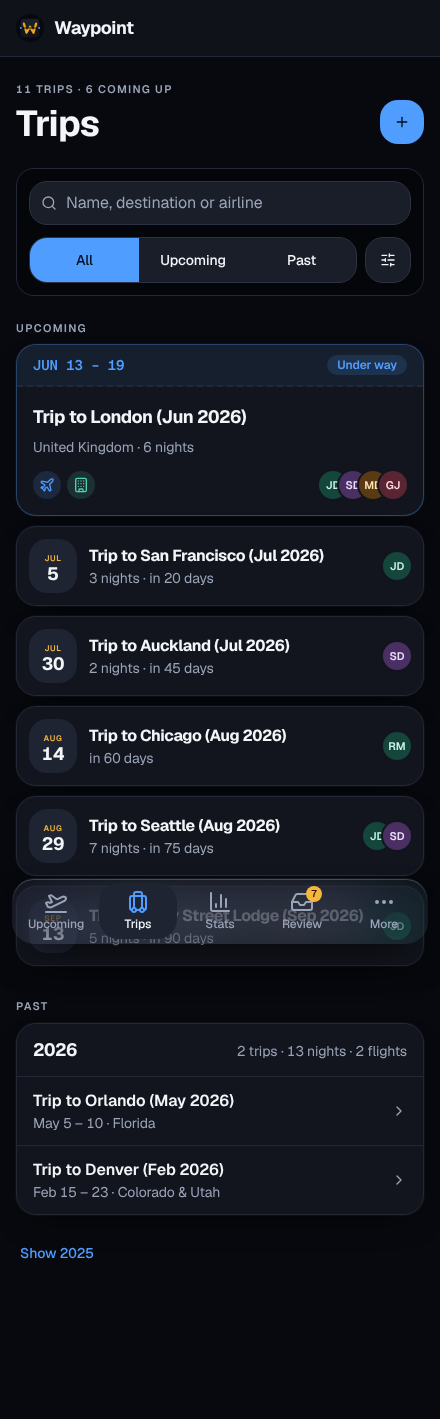
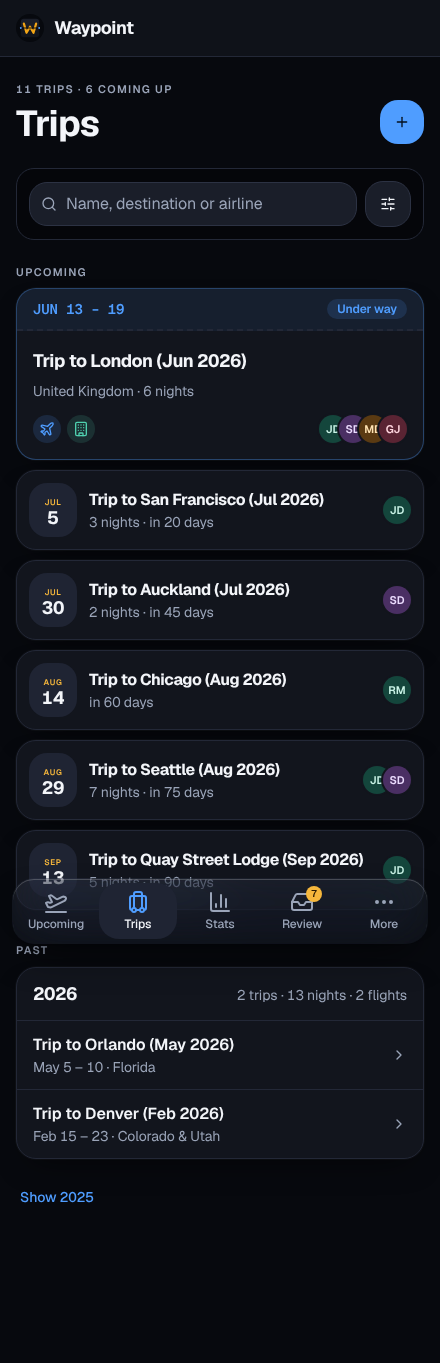
Trips: drop the All/Upcoming/Past switch, Filters beside search (#439)

diff --git a/frontend/src/pages/Trips.svelte b/frontend/src/pages/Trips.svelte
@@ -21,7 +21,7 @@
   import { dropDrafts, leave } from "$lib/drafts.svelte";
   import { panes } from "$lib/panes.svelte";
   import { blankFor } from "$lib/segment-form";
-  import { dayIn, inYear, matchesText, pastByYear, splitTrips, tripRangeLabel, tripPeople, tripYears, viewerZone, type TripWhen } from "$lib/trips";
+  import { dayIn, inYear, matchesText, pastByYear, splitTrips, tripRangeLabel, tripPeople, tripYears, viewerZone } from "$lib/trips";
   import TripPane from "./Trip.svelte";
   import ChevronRight from "@lucide/svelte/icons/chevron-right";
   import Plus from "@lucide/svelte/icons/plus";
@@ -56,10 +56,9 @@
   const who = $derived(Number(param("who")) || null);
   const tripParam = $derived(Number(param("trip")) || null);
   const text = $derived((param("q") ?? "").trim());
-  const when = $derived<TripWhen | null>(param("when") === "upcoming" || param("when") === "past" ? (param("when") as TripWhen) : null);
   const year = $derived(Number(param("year")) || null);
   const queryFor = (change: Record<string, string | number | null>) => {
-    const next = { who, q: text, when, year, trip: tripParam, add: openedByQuery ? adding : null, ...change };
+    const next = { who, q: text, year, trip: tripParam, add: openedByQuery ? adding : null, ...change };
     const q = new URLSearchParams();
     for (const [key, value] of Object.entries(next)) if (value) q.set(key, String(value));
     return q.toString();
@@ -70,12 +69,12 @@
     const v = field.value;
     if (!refine({ q: v.trim() ? v : null })) field.value = text;
   };
-  const clearFilters = () => refine({ who: null, q: null, when: null, year: null });
+  const clearFilters = () => refine({ who: null, q: null, year: null });
   const filtered = $derived(trips && trips.filter((t) => (!who || t.people.includes(who) || t.segments.some((s) => s.travelers.some((x) => x.person_id === who))) && matchesText(t, text) && (!year || inYear(t, year))));
   const count = (n: number) => `${n} ${n === 1 ? "trip" : "trips"}`;
   let filtersOpen = $state(false);
   const years = $derived(trips ? tripYears(trips) : []);
-  const filtering = $derived(!!(who || text || when || year));
+  const filtering = $derived(!!(who || text || year));
   let now = $state(Date.now());
   $effect(() => {
     const tick = setInterval(() => (now = Date.now()), 30_000);
@@ -86,7 +85,7 @@
   const shown = $derived.by(() => {
     if (!filtered) return null;
     const split = splitTrips(filtered, today());
-    return { upcoming: when === "past" ? [] : split.upcoming, past: when === "upcoming" ? [] : split.past };
+    return split;
   });
   const everyTrip = $derived(shown ? [...shown.upcoming, ...shown.past] : []);
   const summary = $derived(trips ? (filtering ? `${everyTrip.length} of ${count(trips.length)}` : `${count(trips.length)}${comingUp ? ` · ${comingUp} coming up` : ""}`) : "");
@@ -129,21 +128,14 @@
 {:else}
   {#if trips && trips.length > 0}
     <form class="mb-6 flex flex-col gap-3 rounded-[18px] border border-border bg-black/25 p-3 md:flex-row md:flex-wrap md:items-center md:gap-x-5 md:gap-y-3 md:p-4" role="search" aria-label="Find a trip" onsubmit={(e) => e.preventDefault()}>
-      <div class="relative w-full md:max-w-sm md:min-w-56 md:flex-1">
-        <label for="trip-search" class="sr-only">Search trips</label>
-        <Search class="pointer-events-none absolute top-1/2 left-3 size-4 -translate-y-1/2 text-muted-foreground" aria-hidden="true" />
-        <Input id="trip-search" type="search" class="pl-9 phone:h-11" value={text} oninput={search} placeholder="Name, destination or airline" autocomplete="off" />
-      </div>
-      <div class="flex items-center gap-2 md:gap-3">
-        <span class="eyebrow hidden md:inline" aria-hidden="true">Show</span>
-        <div class="flex flex-1 overflow-hidden rounded-xl border border-input bg-secondary" role="group" aria-label="Show">
-          {#each [["All", null], ["Upcoming", "upcoming"], ["Past", "past"]] as const as [label, value] (label)}
-            <button type="button" class={`min-h-10 phone:min-h-11 flex-1 px-4 text-sm font-medium outline-none focus-visible:ring-[3px] focus-visible:ring-ring/50 focus-visible:ring-inset ${when === value ? "bg-primary text-primary-foreground" : "hover:bg-input/60"}`}
-              aria-pressed={when === value} onclick={() => refine({ when: value })}>{label}</button>
-          {/each}
+      <div class="flex items-center gap-2 md:contents">
+        <div class="relative min-w-0 flex-1 md:max-w-sm md:min-w-56">
+          <label for="trip-search" class="sr-only">Search trips</label>
+          <Search class="pointer-events-none absolute top-1/2 left-3 size-4 -translate-y-1/2 text-muted-foreground" aria-hidden="true" />
+          <Input id="trip-search" type="search" class="pl-9 phone:h-11" value={text} oninput={search} placeholder="Name, destination or airline" autocomplete="off" />
         </div>
         {#if viewport.phone && (years.length > 1 || year || people.length > 1)}
-          <Button type="button" variant="outline" size="icon" class="relative size-[46px]" onclick={() => (filtersOpen = true)}>
+          <Button type="button" variant="outline" size="icon" class="relative size-[46px] shrink-0" onclick={() => (filtersOpen = true)}>
             <SlidersHorizontal /><span class="sr-only">Filters{year || who ? ", in use" : ""}</span>
             {#if year || who}<span class="absolute top-2 right-2 size-2 rounded-full bg-primary" data-testid="filters-dot" aria-hidden="true"></span>{/if}
           </Button>
@@ -165,7 +157,7 @@
     {/if}
   {/if}
   {#if shown.upcoming.length === 0 && shown.past.length === 0}
-    <p class="text-muted-foreground">{filtering ? (who && !text && !when && !year ? "No trips with them." : "No trips match.") : "No trips yet — they’ll appear here once Waypoint can read your confirmation emails, or when you add a booking."}</p>
+    <p class="text-muted-foreground">{filtering ? (who && !text && !year ? "No trips with them." : "No trips match.") : "No trips yet — they’ll appear here once Waypoint can read your confirmation emails, or when you add a booking."}</p>
   {/if}
   {#snippet upcomingList(group: Trip[])}
     {@const day = today()}

diff --git a/frontend/src/pages/Trips.svelte.test.ts b/frontend/src/pages/Trips.svelte.test.ts
@@ -487,26 +487,20 @@ describe("finding a trip", () => {
 
   it("opens with the filters from the address, and says when nothing matches", async () => {
     serve(archive);
-    route.query = "q=nowhere&when=past&year=2019";
+    route.query = "q=nowhere&year=2019";
     render(Trips);
     expect(await screen.findByText("No trips match.")).toBeInTheDocument();
     expect(screen.getByRole("searchbox", { name: "Search trips" })).toHaveValue("nowhere");
-    expect(within(screen.getByRole("group", { name: "Show" })).getByRole("button", { name: "Past" })).toHaveAttribute("aria-pressed", "true");
     expect(within(screen.getByRole("group", { name: "Year" })).getByRole("button", { name: "2019" })).toHaveAttribute("aria-pressed", "true");
     await user().click(screen.getByRole("button", { name: "Clear filters" }));
     expect(route.query).toBe("");
     expect(await screen.findByText("300 trips")).toBeInTheDocument();
   });
 
-  it("filters by year and by upcoming or past, together with the traveller", async () => {
+  it("filters by year, together with the traveller", async () => {
     serve();
     render(Trips);
     await screen.findByText("3 trips · 2 coming up");
-    await user().click(within(screen.getByRole("group", { name: "Show" })).getByRole("button", { name: "Past" }));
-    expect(route.query).toBe("when=past");
-    expect(screen.queryByRole("list", { name: "Upcoming trips" })).toBeNull();
-    expect(screen.getByText("Trip to Orlando")).toBeInTheDocument();
-    await user().click(within(screen.getByRole("group", { name: "Show" })).getByRole("button", { name: "All" }));
     await user().click(within(screen.getByRole("group", { name: "Year" })).getByRole("button", { name: "2027" }));
     expect(route.query).toBe("year=2027");
     expect(screen.getByText("Trip to Auckland")).toBeInTheDocument();
@@ -523,9 +517,17 @@ describe("finding a trip", () => {
     await screen.findByText("3 trips · 2 coming up");
     await user().click(within(screen.getByRole("group", { name: "Year" })).getByRole("button", { name: "2027" }));
     expect(route.query).toBe("year=2027&trip=2");
-    await user().click(within(screen.getByRole("group", { name: "Show" })).getByRole("button", { name: "Past" }));
-    expect(route.query).toBe("when=past&year=2027&trip=2");
+    await user().click(person("Jane Doe"));
+    expect(route.query).toBe("who=1&year=2027&trip=2");
     expect(screen.getByText("No trips match.")).toBeInTheDocument();
+  });
+
+  it("ignores a Show choice left in an old address", async () => {
+    route.query = "when=past";
+    serve();
+    render(Trips);
+    expect(await screen.findByRole("list", { name: "Upcoming trips" })).toBeInTheDocument();
+    expect(screen.queryByRole("button", { name: "Clear filters" })).toBeNull();
   });
 
   it("shows no filters before there is a trip to find", async () => {
@@ -533,19 +535,6 @@ describe("finding a trip", () => {
     render(Trips);
     await screen.findByText(/No trips yet/);
     expect(screen.queryByRole("searchbox")).toBeNull();
-  });
-
-  it("reads the Show control from the address and writes each choice back", async () => {
-    route.query = "when=upcoming";
-    render(Trips);
-    await screen.findByRole("list", { name: "Upcoming trips" });
-    const show = within(screen.getByRole("group", { name: "Show" }));
-    expect(show.getAllByRole("button").map((b) => [b.textContent, b.getAttribute("aria-pressed")])).toEqual([["All", "false"], ["Upcoming", "true"], ["Past", "false"]]);
-    expect(screen.queryByRole("list", { name: "Past trips" })).toBeNull();
-    await user().click(show.getByRole("button", { name: "Past" }));
-    expect(route.query).toBe("when=past");
-    await user().click(show.getByRole("button", { name: "All" }));
-    expect(route.query).toBe("");
   });
 
   it("clears the year by pressing it again, and reads it back from the address", async () => {
@@ -597,7 +586,7 @@ describe("finding a trip", () => {
     await screen.findByRole("list", { name: "Upcoming trips" });
     expect(screen.queryByRole("group", { name: "Year" })).toBeNull();
     expect(screen.queryByRole("group", { name: "Travelling" })).toBeNull();
-    expect(screen.getByRole("group", { name: "Show" })).toBeInTheDocument();
+    expect(screen.queryByRole("group", { name: "Show" })).toBeNull();
   });
 
   it("keeps a year that is in the address even when it is the only one", async () => {
@@ -632,7 +621,13 @@ describe("on a phone", () => {
     expect(screen.getByTestId("filters-dot")).toBeInTheDocument();
     expect(screen.getByRole("button", { name: "Filters, in use" })).toBeInTheDocument();
     expect(screen.getByRole("searchbox", { name: "Search trips" })).toBeInTheDocument();
-    expect(screen.getByRole("group", { name: "Show" })).toBeInTheDocument();
+    expect(screen.queryByRole("group", { name: "Show" })).toBeNull();
+  });
+
+  it("puts the Filters button beside the search field", async () => {
+    render(Trips);
+    await screen.findByRole("list", { name: "Upcoming trips" });
+    expect(screen.getByRole("button", { name: "Filters" }).parentElement).toBe(screen.getByRole("searchbox", { name: "Search trips" }).parentElement?.parentElement);
   });
 
   it("offers adding a trip, a booking or a past trip from one button", async () => {

diff --git a/frontend/src/pages/Upcoming.svelte b/frontend/src/pages/Upcoming.svelte
@@ -363,7 +363,7 @@
                     </li>
                   {/each}
                 </ul>
-                <a class="flex min-h-11 items-center justify-between border-t border-border px-4 text-sm font-medium underline-offset-2 hover:underline" href="#trips?when=upcoming">All trips<ChevronRight class="size-4 text-muted-foreground" aria-hidden="true" /></a>
+                <a class="flex min-h-11 items-center justify-between border-t border-border px-4 text-sm font-medium underline-offset-2 hover:underline" href="#trips">All trips<ChevronRight class="size-4 text-muted-foreground" aria-hidden="true" /></a>
               </section>
             {/if}
           {/if}

diff --git a/frontend/src/pages/Upcoming.svelte.test.ts b/frontend/src/pages/Upcoming.svelte.test.ts
@@ -804,7 +804,7 @@ describe("Upcoming side column", () => {
     expect(rows[1]).toHaveTextContent("Porto weekend");
     expect(rows[1]).toHaveTextContent("In 82 days · 2 nights");
     expect(rows[2]).toHaveTextContent("Rome");
-    expect(within(card).getByRole("link", { name: "All trips" })).toHaveAttribute("href", "#trips?when=upcoming");
+    expect(within(card).getByRole("link", { name: "All trips" })).toHaveAttribute("href", "#trips");
   });
 
   it("leaves the Later card out when there are no later trips", async () => {

diff --git a/frontend/src/lib/trips.ts b/frontend/src/lib/trips.ts
@@ -172,8 +172,6 @@ export function splitTrips(trips: Trip[], today: string): { upcoming: Trip[]; pa
   return { upcoming, past };
 }
 
-export type TripWhen = "upcoming" | "past";
-
 export function matchesText(trip: Trip, text: string): boolean {
   const terms = text.toLowerCase().split(/\s+/).filter(Boolean);
   if (!terms.length) return true;

diff --git a/docs/src/content/docs/start/trips.md b/docs/src/content/docs/start/trips.md
@@ -14,9 +14,9 @@ Past trips do not show offline-saving notices or offer to set up a saved copy. O
 - **Upcoming** opens with today’s date above its title and an **Add a booking** button (a **+** on a phone). When emails are waiting in Review and you have trips, an amber banner under the header says how many and links to Review; on a phone it is one compact row. Only the count is shown, never a subject or sender. Below the next-up card, the trip is laid out day by day: a date column and one card per day on a larger screen, a date above each card on a phone, with each booking’s time where it happens, a tile for its kind and a **Next up** marker on the booking the card shows. The trip’s heading shows its dates and nights.
 - **Upcoming** leads with a boarding pass for what is next. Its header strip names what it is (**Next up**, **Under way**, **In the air**, **Delayed** or **Latest flight**) and the trip, with the booking’s status chips and the count-down (below) on the right. Its body shows the airline and flight number with the flight’s length and “nonstop”, the airports’ codes, very large, joined by a dashed route line with the plane, each code with its city and airport name beneath it (just the code for an airport Waypoint doesn’t know), and the time at each in the airport’s own time with its date and “City time” (a stay, rental car or parking booking shows its place with the two times, such as check-in and check-out), with a small **+1** (or +2, or −1 across the date line) beside an arrival that falls on another calendar day than the departure. The stub beside it (under it on a phone) holds the confirmation code, which you tap to copy, then the terminal, gate (“Not yet” until it is known), seats and cabin (or a stay’s room and a rental’s car) and who is travelling by first name; on a phone the details are a strip of the code, terminal, gate and seats. Under the route, with the live flight status, sit the actions: the app or **Check in** button, then **Directions**, **Call**, **Show QR code** for a parking booking, and **Open trip**. On a phone only the app button, **Show QR code** and **Open trip** are shown; the rest are on the trip page. A flight booked on two reservations shows each code. A flight in the air or a rental car out counts as under way and leads until it ends; a hotel stay in progress doesn’t push the day’s flight aside. Below it, the trip that card belongs to (or the next one, when you aren’t travelling) is laid out day by day. On a day you leave, the list puts the hotel check-out first, then the car’s return, then the departure, whatever hours the bookings show (a check-out time is often the hotel’s standard hour, not when you walk out). Each booking in that list, and the card’s **Open trip** button, links to that booking’s card on its trip page, which scrolls to it and outlines it; clicking one opens its full card in a sheet (it slides up from the bottom on a phone and is a side panel on a larger screen), with an **Open trip** button to go to the trip page, and Ctrl- or Cmd-click still follows the link. In that day-by-day list a flight leaves out its cabin, a hotel with a known brand shows the brand (Hyatt Place) and any other hotel its full name, each with its city and state from the address (City, State when both are known, the city alone or the state alone when only one is), and a hotel’s full name appears when you hover over a branded one. An address that can’t be read is shown as it was written. The trip page keeps the full names, cabins and addresses. Cancelled segments never lead.
 - A stay or rental with a map link or a phone number shows **Directions** and **Call** on the Upcoming card, in place of the app button, as the trip page does. While you are on a trip, the day-by-day list starts at today; the days before it are kept under **Earlier in this trip**, a disclosure you open with Enter or Space as well as a tap. Nothing is loaded from outside your server for it.
-- On a wide window **Upcoming** has a side column beside the day-by-day list (about 340 px; it drops below the list when the page is under about 900 px wide, as on a tablet). It starts with a small **route map** of the trip in the list: flights as dashed arcs, ground legs as solid lines, and each place as an amber dot with its code. It is a still picture, not the animated replay on the trip page, and it opens the trip when you click it. It loads after the page, using only that trip’s own places from your server, and shows only when at least two stops have a known place; when the places can’t be loaded, or you are offline, it is left out and the rest of the page is unchanged. Under it are the trip’s totals: **nights**, **bookings** (cancelled ones don’t count) and **cities** (the distinct places among its bookings). Below those, **Later** lists every other trip that hasn’t started yet, soonest first, each with its start date, name and how soon it starts, with the trip’s destination or its nights, and an **All trips** link to the Upcoming trips on Trips; it is left out when there are none. On a phone only **Later** shows, as tiles two to a row under the day-by-day list, with no map or totals.
+- On a wide window **Upcoming** has a side column beside the day-by-day list (about 340 px; it drops below the list when the page is under about 900 px wide, as on a tablet). It starts with a small **route map** of the trip in the list: flights as dashed arcs, ground legs as solid lines, and each place as an amber dot with its code. It is a still picture, not the animated replay on the trip page, and it opens the trip when you click it. It loads after the page, using only that trip’s own places from your server, and shows only when at least two stops have a known place; when the places can’t be loaded, or you are offline, it is left out and the rest of the page is unchanged. Under it are the trip’s totals: **nights**, **bookings** (cancelled ones don’t count) and **cities** (the distinct places among its bookings). Below those, **Later** lists every other trip that hasn’t started yet, soonest first, each with its start date, name and how soon it starts, with the trip’s destination or its nights, and an **All trips** link to Trips; it is left out when there are none. On a phone only **Later** shows, as tiles two to a row under the day-by-day list, with no map or totals.
   - The line at the top of a flight’s card uses the airline’s latest live flight status when the flight is tracked. A final status (landed, cancelled or diverted) is kept for good and always wins; any other status counts only while it is fresh and is never taken as proof for a past flight: “Delayed 50 min, expected to leave in …”, “Departed, expected to arrive in …”, “Landed”, “Cancelled by the airline” or “Diverted”. Where the only airline data is not final or is missing (live status is off, has nothing for the flight, is more than 3 hours old, or this device is offline, as for a past trip) it counts from the booked times: “Check-in opens in …”, then from 24 hours before departure (the same 24 hours as the [check-in reminder](/Waypoint/start/reminders/)) “Check-in is open, departs in …”, then once it has left “Under way, arrives in …”, then “Landed”. A stay, car, train, cruise or parking booking keeps its own words (“Check-in in …”, “Pick-up in …”, “Drop-off in …”, “Entry in …”, “Exit in …”). The plane runs along the route line from airport to airport, placed from the booked departure and arrival, at the end once live status says the flight landed, and at the start for a cancelled one. The airports’ city and name sit under the codes, and a flight that lands on another calendar day is marked “+1 day”. The booked times themselves are never changed.
-- **Trips** lists the trips you can see: the ones still to come or under way, and the past ones. A trip still to come is a ticket card: a stub with the start date (and “to 27”, “to Jan 2” or the year when it isn’t this year; “No dates” for a trip without dates), then the trip’s name, a pill saying when it starts (“In 2 days”, “Tomorrow”, “Today” or “Under way”), its destination and nights, small icons for what it holds (a plane for flights, a building for stays, a car, a train, a ship or a parking sign; cancelled bookings don’t count) and who is travelling. The soonest trip’s card is highlighted. On a phone the soonest trip is a full card with its dates in a strip across the top and the others are compact rows. Past trips are grouped by the year they started, newest first, each year in one card with its totals (trips, nights and flights); on a phone only the newest year shows at first, with a **Show** link for the next. When the window is wide enough for a readable trip beside the list (about 1,170 px with the side menu showing, less when the text is smaller; zooming in makes the window count as narrower), the list sits beside the selected trip in two panes: pick a card to see that trip without leaving the page. The list narrows a little to keep room for the trip. The selected trip is kept in the address (`#trips?trip=…`, together with the traveller choice when there is one), so reloading the page or opening a copied link shows the same trip, and a link to a trip you can’t see simply shows the first trip you can. Picking a card doesn’t add a Back step. Anywhere narrower, including a tablet, a phone or a zoomed-in window, the list stays a list, and a card opens the trip’s page. Above the list, one filter bar holds **Search**, which finds trips by words in the trip’s name, its destination or the airline, hotel or other provider of any of its bookings (every word you type has to match, capitals don’t matter); **Show**, a three-way switch (All, Upcoming, Past); **Year** as a chip for each year, to show the trips that start, end or fall within it (a trip that crosses New Year’s shows under both years; the chips appear once you have trips in more than one year, and pressing the chosen one again clears it); and **Travelling** as a row of initials, one for each person (shown once there is more than one; pressing the chosen one again returns to everyone). On a phone the search field is full width, with the Show switch and a **Filters** button under it that opens a sheet with the year chips and the people, and shows a dot while either is set; **Add a trip**, **Add a booking** and **Add a past trip** are under one **+** button (on a computer they are three buttons above the list). The filters combine, the line above the title says how many trips there are and how many are coming up (for example “412 trips · 3 coming up”, or “3 of 412 trips” while filtering), and **Clear filters** shows everything again. They are kept in the address (`#trips?q=…&when=…&year=…&who=…`) so reloading or opening a copied link shows the same list. Waypoint searches only the trips you can see, on your own server: nothing you type is sent anywhere. The whole list stays on one page, however long the archive.
+- **Trips** lists the trips you can see: the ones still to come or under way, and the past ones. A trip still to come is a ticket card: a stub with the start date (and “to 27”, “to Jan 2” or the year when it isn’t this year; “No dates” for a trip without dates), then the trip’s name, a pill saying when it starts (“In 2 days”, “Tomorrow”, “Today” or “Under way”), its destination and nights, small icons for what it holds (a plane for flights, a building for stays, a car, a train, a ship or a parking sign; cancelled bookings don’t count) and who is travelling. The soonest trip’s card is highlighted. On a phone the soonest trip is a full card with its dates in a strip across the top and the others are compact rows. Past trips are grouped by the year they started, newest first, each year in one card with its totals (trips, nights and flights); on a phone only the newest year shows at first, with a **Show** link for the next. When the window is wide enough for a readable trip beside the list (about 1,170 px with the side menu showing, less when the text is smaller; zooming in makes the window count as narrower), the list sits beside the selected trip in two panes: pick a card to see that trip without leaving the page. The list narrows a little to keep room for the trip. The selected trip is kept in the address (`#trips?trip=…`, together with the traveller choice when there is one), so reloading the page or opening a copied link shows the same trip, and a link to a trip you can’t see simply shows the first trip you can. Picking a card doesn’t add a Back step. Anywhere narrower, including a tablet, a phone or a zoomed-in window, the list stays a list, and a card opens the trip’s page. Above the list, one filter bar holds **Search**, which finds trips by words in the trip’s name, its destination or the airline, hotel or other provider of any of its bookings (every word you type has to match, capitals don’t matter); **Year** as a chip for each year, to show the trips that start, end or fall within it (a trip that crosses New Year’s shows under both years; the chips appear once you have trips in more than one year, and pressing the chosen one again clears it); and **Travelling** as a row of initials, one for each person (shown once there is more than one; pressing the chosen one again returns to everyone). On a phone the search field has a **Filters** button beside it that opens a sheet with the year chips and the people, and shows a dot while either is set; **Add a trip**, **Add a booking** and **Add a past trip** are under one **+** button (on a computer they are three buttons above the list). The filters combine, the line above the title says how many trips there are and how many are coming up (for example “412 trips · 3 coming up”, or “3 of 412 trips” while filtering), and **Clear filters** shows everything again. They are kept in the address (`#trips?q=…&year=…&who=…`) so reloading or opening a copied link shows the same list. Waypoint searches only the trips you can see, on your own server: nothing you type is sent anywhere. The whole list stays on one page, however long the archive.
 - With no trips to show, **Upcoming** says what to do next, using only your own mailbox and the Review items you can see: **Connect Gmail** when you have no mailbox connected (it starts the Google sign-in straight away; left out when the server has no Gmail set up), **Reconnect Gmail** when a mailbox can’t be read, **Scanning your mailbox** while a scan runs, and a link to **Review** with the count when emails are waiting. **Add a booking** is always there and opens the add form on Trips directly. A collapsed, optional **Setup checklist** links to People, adding a first booking and offline use in Settings; nothing is forced and it disappears with your first trip.
 - A **trip** page lays the trip out as a timeline of pass cards, one per booking in the order of the trip. Each card has the same top line as on Upcoming (counting from the booked times), the confirmation code to tap and copy, the airports and a route line for a flight, its local times, the terminal, seat and cabin, and the booking’s status. The trip’s travellers are listed once under its title and dates: everyone on any booking, each once, in the order they first appear (left out when you are the only one on the trip). Below the tear line a flight lists its travellers with their seats (a flight on two reservations is one card with a block for each code). A booking’s card shows its times as they are at the place and doesn’t print the time zone’s name on screen (a screen reader reads each zone after its time); the zone is a field in the booking’s edit form. The day marker compares the calendar dates at the two airports, never converted. Airport names come from the airport list that ships with Waypoint, so nothing is looked up outside your server. The live status line writes its clocks the same way as the scheduled times, in your browser’s 12- or 24-hour style. A hotel, rental car or parking booking never lists its travellers; the trip’s line at the top says who is on the trip. A cruise lists its travellers like a flight. A train lists its travellers only when they aren’t simply the trip’s whole set or when one has a seat. For a hotel, a rental car or a cruise, a **Loyalty** line shows the program and masked number of each traveller who has one for that chain or cruise line, one per line and without names (a booking where nobody has one shows no such block). Tap a number to show it and copy it; tap again to hide it. A flight shows no frequent-flyer number, since it was used when the flight was booked; the household’s numbers are on [People](/Waypoint/start/people/). A traveller known only by their printed name is marked as not matched to a person yet on a flight. Waypoint tells the program from the provider’s name (“American Airlines” is American AAdvantage), so write the provider the way the airline or chain does.
 
